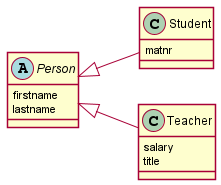
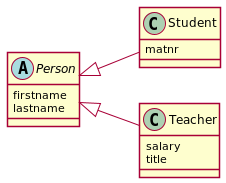
generate today's lecture

Changed region(s): [[0.0271, 0.2732, 0.543, 0.7104], [0.4887, 0.5464, 1.0, 0.9836], [0.543, 0.0273, 1.0, 0.3825]]

diff --git a/asciidocs/notes.html b/asciidocs/notes.html
@@ -130,7 +130,7 @@ a {
 <div class="details">
 <span id="author" class="author">Thomas Spindler</span><br>
 <span id="revnumber">version 1.0.0,</span>
-<span id="revdate">2022-02-01</span>
+<span id="revdate">2022-02-03</span>
 <br><span id="revremark">ITP</span>
 </div>
 <div id="toc" class="toc2">
@@ -182,6 +182,7 @@ a {
 <li><a href="#_01_02_2022">8.9. 01.02.2022</a></li>
 </ul>
 </li>
+<li><a href="#_03_02_2022">9. 03.02.2022</a></li>
 </ul>
 </div>
 </div>
@@ -951,7 +952,7 @@ stop
 <h3 id="_plantuml_2_20_01_2022">8.3. PlantUML 2 (20.01.2022)</h3>
 <div class="imageblock">
 <div class="content">
-<img src="images/ucd1.png" alt="ucd1" width="294" height="328">
+<img src="images/ucd1.png" alt="ucd1" width="294" height="237">
 </div>
 </div>
 <div class="admonitionblock tip">
@@ -1108,7 +1109,7 @@ Branches nicht auf Personen, sondern Features!
 </table>
 </div>
 <div class="paragraph">
-<p>zuerst checken, dass der Master up to date ist. Dann kannn man die branches mergen mithilfe von</p>
+<p>zuerst checken, dass der Master up to date ist. Dann kann man die branches mergen mithilfe von</p>
 </div>
 <div class="literalblock">
 <div class="content">
@@ -1117,7 +1118,7 @@ Branches nicht auf Personen, sondern Features!
 </div>
 <div class="paragraph">
 <p>und dann das gesamte pushen. Daraufhin den feature/teacher branch auschecken und pullen (damit alles up to date ist)<br>
-Daraufhin wieder in den master wechseln, und ebenfalls wieder mergen</p>
+daraufhin wieder in den master wechseln, und ebenfalls wieder mergen</p>
 </div>
 <div class="literalblock">
 <div class="content">
@@ -1143,11 +1144,36 @@ Alle Abänderungen können nun auf dem origin master gefunden werden.</p>
 </div>
 </div>
 </div>
+<div class="sect1">
+<h2 id="_03_02_2022">9. 03.02.2022</h2>
+<div class="sectionbody">
+<div class="admonitionblock note">
+<table>
+<tr>
+<td class="icon">
+<i class="fa icon-note" title="Note"></i>
+</td>
+<td class="content">
+Unser Berufsbild: DevOps
+</td>
+</tr>
+</table>
+</div>
+<div class="paragraph">
+<p><a href="https://youtu.be/0yWAtQ6wYNM">Video dazu</a></p>
+</div>
+<div class="imageblock">
+<div class="content">
+<img src="images/tennis.png" alt="tennis" width="585" height="167">
+</div>
+</div>
+</div>
+</div>
 </div>
 <div id="footer">
 <div id="footer-text">
 Version 1.0.0<br>
-Last updated 2022-02-01 08:50:46 +0100
+Last updated 2022-02-03 11:58:03 +0100
 </div>
 </div>
 </body>
